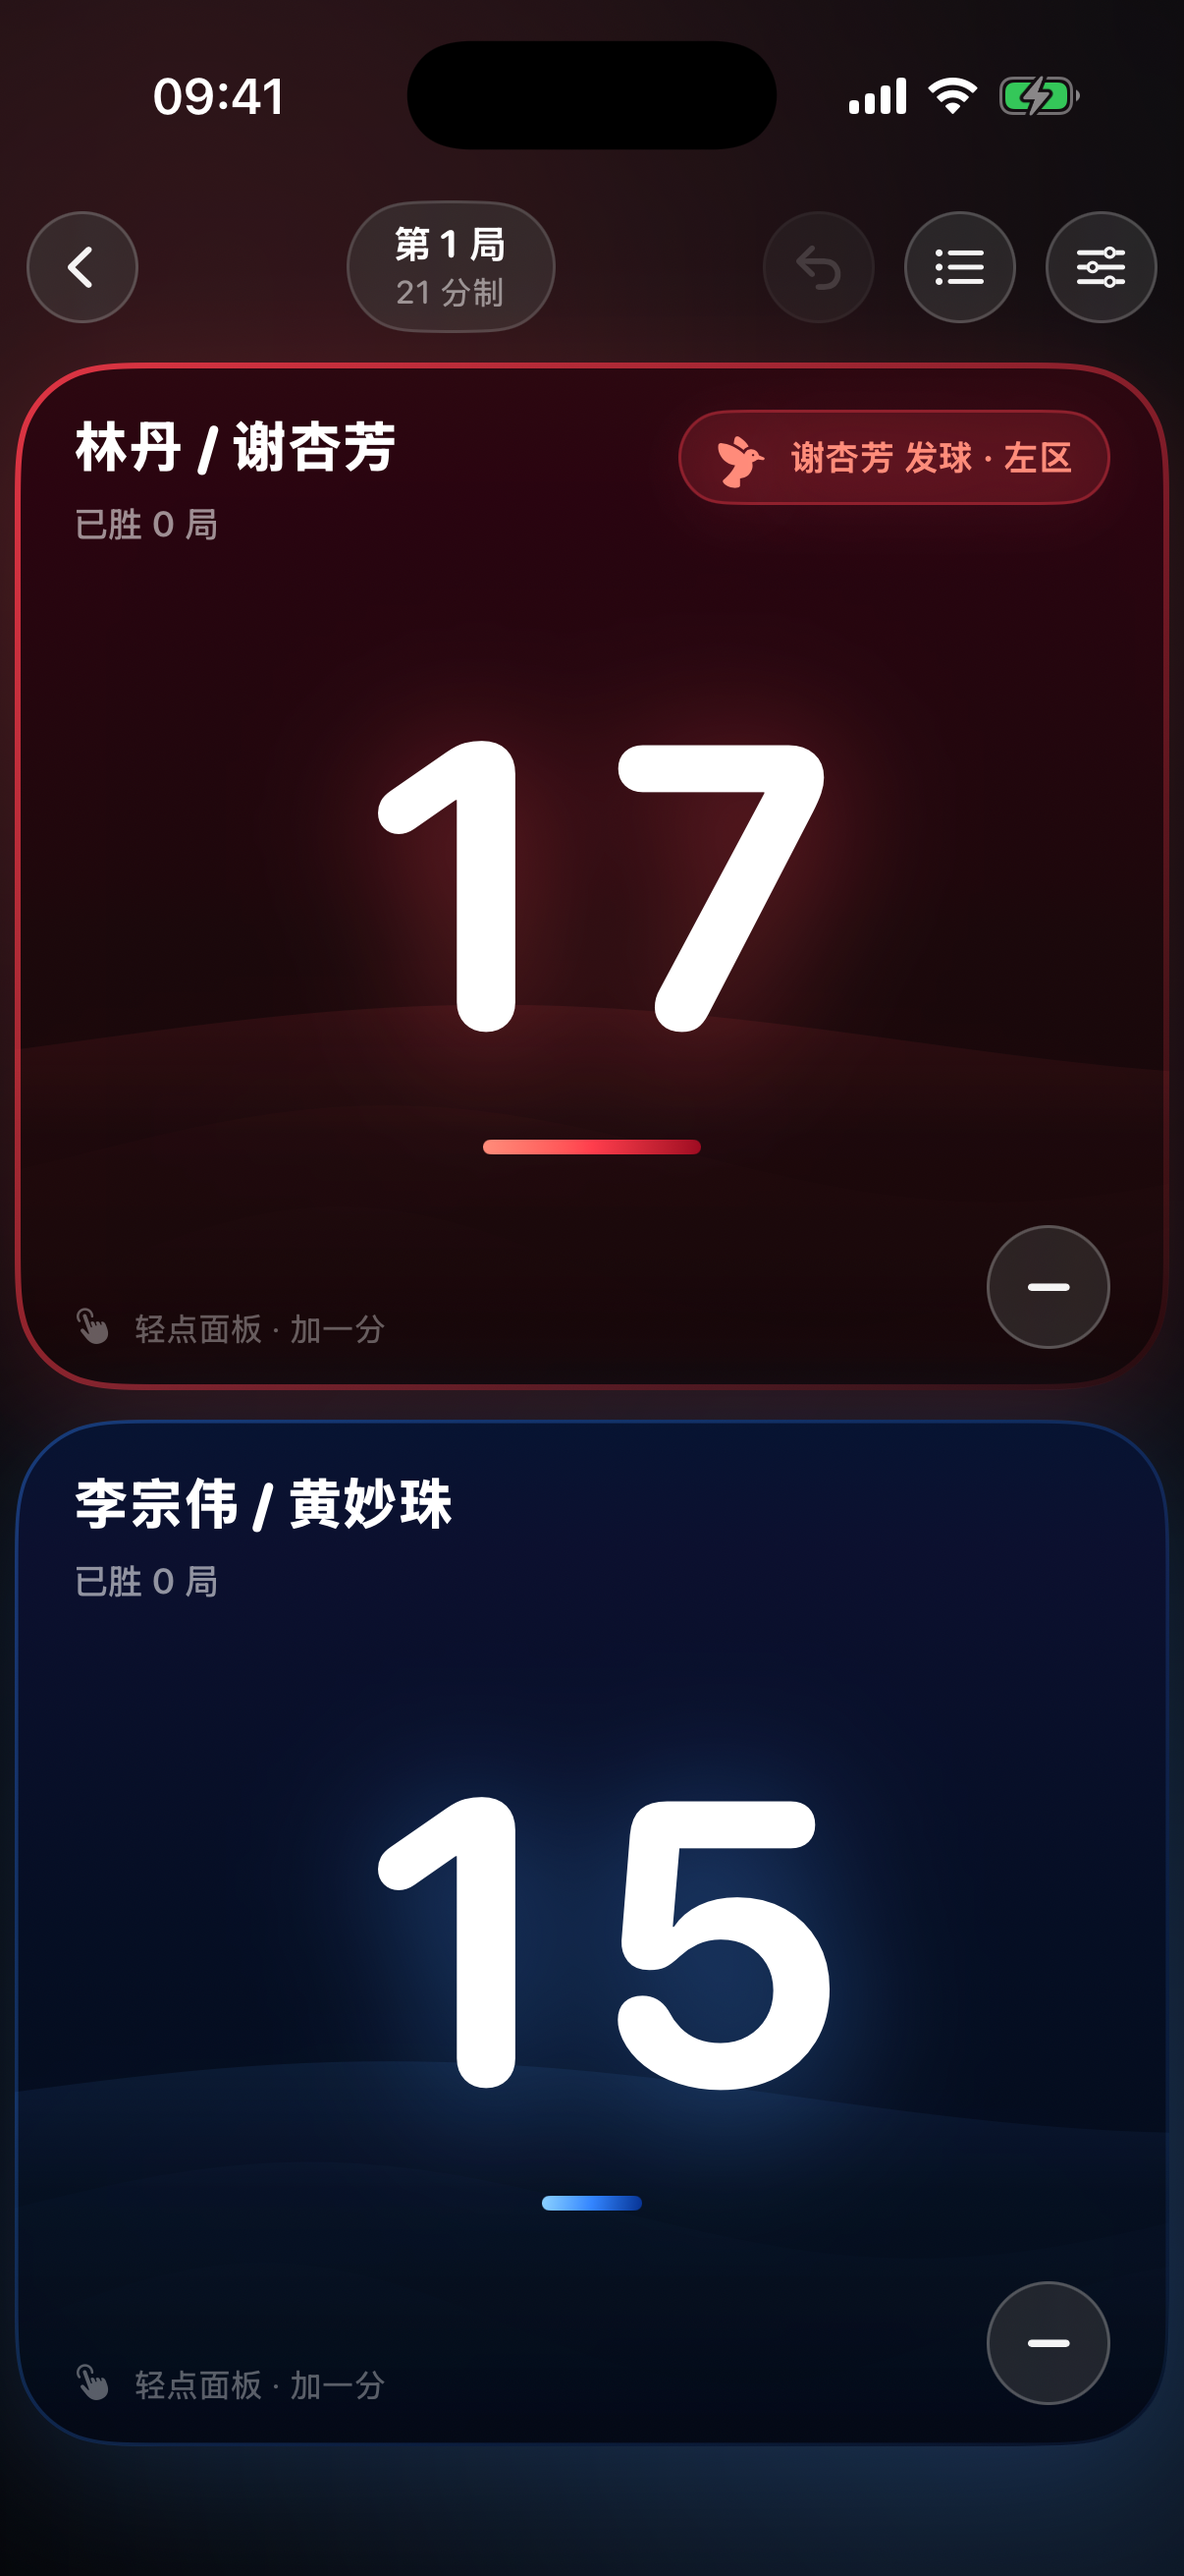
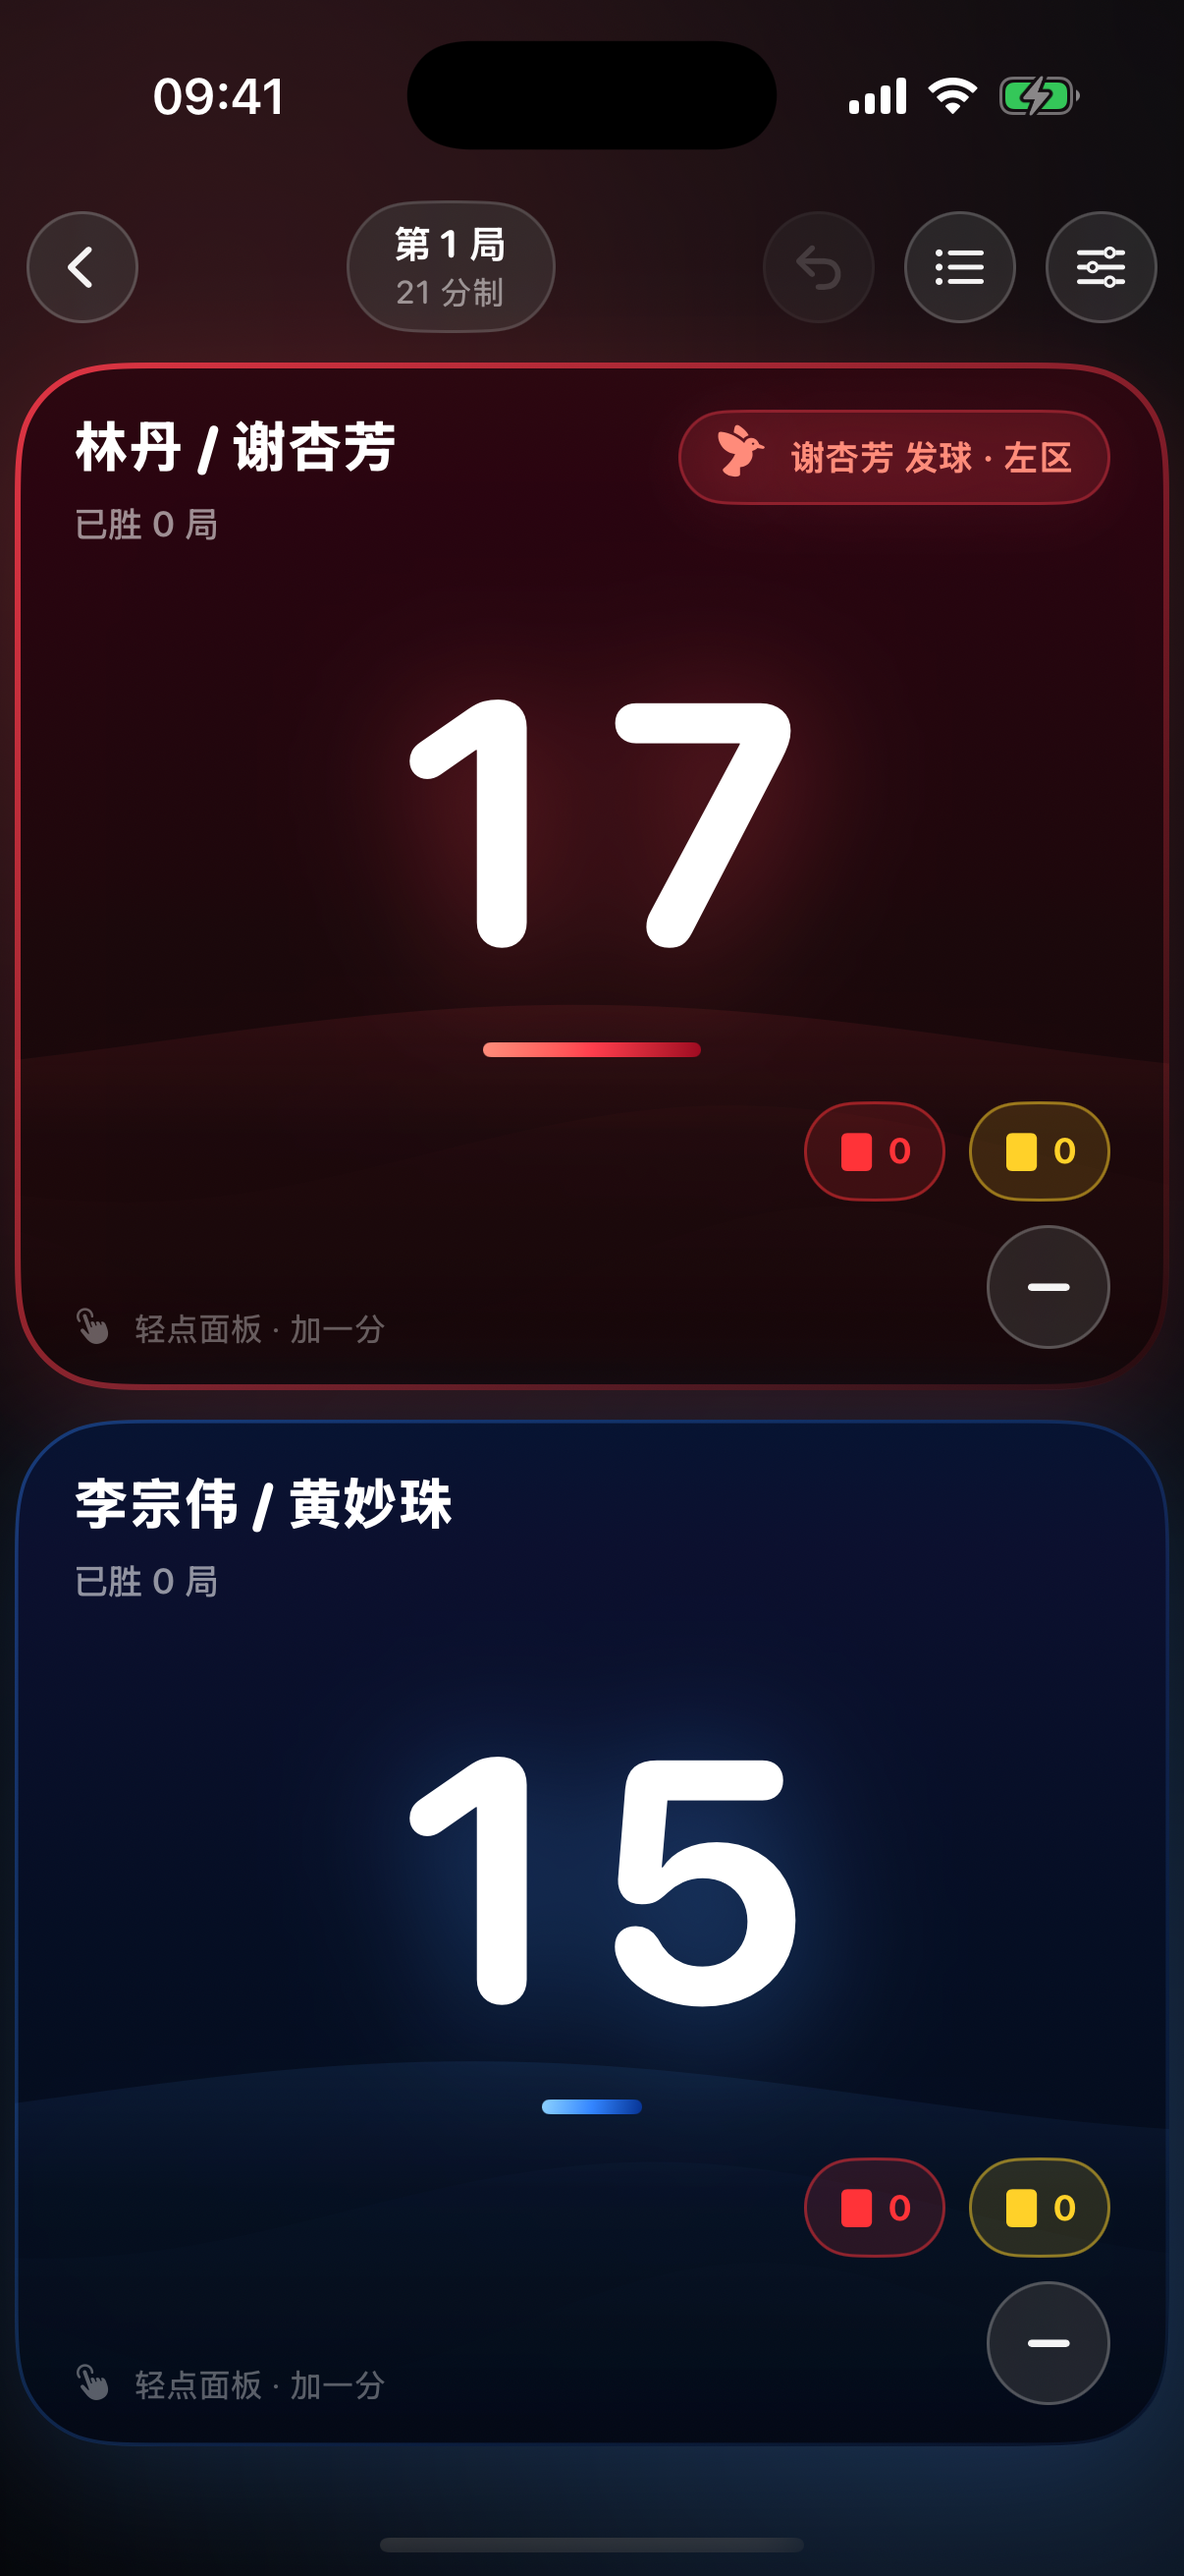
赛点 2.3：红黄牌视频与发布图

diff --git a/src/BadmintonVideo.tsx b/src/BadmintonVideo.tsx
@@ -80,7 +80,7 @@ const SceneOpen: React.FC<{ dur: number }> = ({ dur }) => (
       <div style={{ height: 22 }} />
       <FadeUp delay={26} distance={22}>
         <div style={{ fontSize: 30, color: COLORS.textDim, letterSpacing: 6, fontFamily: FONT }}>
-          红蓝对抗 · 规则内置 · 一指计分
+          红蓝对抗 · 红黄牌 · 一指计分
         </div>
       </FadeUp>
       <div style={{ height: 34 }} />
@@ -88,7 +88,7 @@ const SceneOpen: React.FC<{ dur: number }> = ({ dur }) => (
         <div style={{
           fontSize: 24, fontWeight: 700, color: "#07080C", background: COLORS.blue,
           padding: "9px 26px", borderRadius: 14, fontFamily: FONT,
-        }}>2.2</div>
+        }}>2.3</div>
       </FadeUp>
     </AbsoluteFill>
   </SceneShell>
@@ -133,6 +133,28 @@ const SceneMinus: React.FC<{ dur: number }> = ({ dur }) => (
       <FadeUp delay={48} distance={20}>
         <div style={{ fontSize: 26, color: COLORS.textDim, fontFamily: FONT }}>
           分不是「减」掉的，是<b style={{ color: COLORS.text }}>撤回上一次加分</b> —— 撤销重做随便退
+        </div>
+      </FadeUp>
+    </AbsoluteFill>
+  </SceneShell>
+);
+
+const SceneCards: React.FC<{ dur: number }> = ({ dur }) => (
+  <SceneShell duration={dur} glow={1.0} glowY={42}>
+    <AbsoluteFill style={{ justifyContent: "center", alignItems: "center", flexDirection: "column" }}>
+      <Kicker delay={4}>红黄牌</Kicker>
+      <div style={{ height: 24 }} />
+      <Headline delay={12} size={58}>犯规也记在比分旁</Headline>
+      <div style={{ height: 34 }} />
+      <div style={{ display: "flex", gap: 34, alignItems: "center" }}>
+        <Shot src="s-cards.png" height={440} delay={20} />
+        <Shot src="s-card-red.png" height={380} delay={34} />
+        <Shot src="s-card-yellow.png" height={380} delay={48} />
+      </div>
+      <div style={{ height: 34 }} />
+      <FadeUp delay={68} distance={20}>
+        <div style={{ fontSize: 26, color: COLORS.textDim, fontFamily: FONT }}>
+          红黄牌分别计数 · 全屏提示 · 撤销菜单可分别撤回分数、红牌或黄牌
         </div>
       </FadeUp>
     </AbsoluteFill>
@@ -321,9 +343,9 @@ const SceneOutro: React.FC<{ dur: number }> = ({ dur }) => {
 };
 
 const MAP: [keyof typeof SCENES, React.FC<{ dur: number }>][] = [
-  ["open", SceneOpen], ["tap", SceneTap], ["minus", SceneMinus], ["modes", SceneModes],
-  ["custom", SceneCustom], ["doubles", SceneDoubles], ["records", SceneRecords],
-  ["platforms", ScenePlatforms], ["outro", SceneOutro],
+  ["open", SceneOpen], ["tap", SceneTap], ["minus", SceneMinus], ["cards", SceneCards],
+  ["modes", SceneModes], ["custom", SceneCustom], ["doubles", SceneDoubles],
+  ["records", SceneRecords], ["platforms", ScenePlatforms], ["outro", SceneOutro],
 ];
 
 /** 场景交界处交叠的帧数。两边一起淡，就成了交叉溶解，不会中间黑一下。 */
@@ -340,7 +362,7 @@ export const BadmintonVideo: React.FC = () => (
     }} />
 
     <Audio
-      src={staticFile("slowmotion.mp3")}
+      src={staticFile("episode33.mp3")}
       volume={(f) =>
         interpolate(f, [0, 30, TOTAL_FRAMES - 90, TOTAL_FRAMES], [0, 1, 1, 0], {
           extrapolateLeft: "clamp", extrapolateRight: "clamp",

diff --git a/src/Cover.tsx b/src/Cover.tsx
@@ -15,7 +15,7 @@ export const Cover: React.FC = () => (
         <div style={{ display: "flex", alignItems: "center", gap: 14 }}>
           <span style={{ fontSize: 52 }}>🏸</span>
           <span style={{ fontSize: 38, fontWeight: 700, color: COLORS.text }}>赛点</span>
-          <span style={{ fontSize: 25, fontWeight: 800, color: "#07080C", background: COLORS.blue, padding: "4px 15px", borderRadius: 10 }}>2.2</span>
+          <span style={{ fontSize: 25, fontWeight: 800, color: "#07080C", background: COLORS.blue, padding: "4px 15px", borderRadius: 10 }}>2.3</span>
         </div>
 
         <div style={{ marginTop: 26, fontSize: 60, fontWeight: 800, color: COLORS.text, lineHeight: 1.16 }}>
@@ -25,11 +25,11 @@ export const Cover: React.FC = () => (
         </div>
 
         <div style={{ marginTop: 20, fontSize: 22, color: COLORS.textDim }}>
-          六种规则 · 自定义分数 · 双打发球轮转
+          六种规则 · 红黄牌 · 双打发球轮转
         </div>
 
         <div style={{ marginTop: 20, display: "flex", gap: 11 }}>
-          {["一指计分", "减分即撤回", "对战记录"].map((t) => (
+          {["一指计分", "红黄牌", "对战记录"].map((t) => (
             <span key={t} style={{
               fontSize: 18, color: COLORS.blueBright, padding: "7px 16px", borderRadius: 10,
               background: "rgba(51,133,255,0.14)", border: `1px solid ${COLORS.line}`,
@@ -44,8 +44,8 @@ export const Cover: React.FC = () => (
 
       <div style={{ display: "flex", gap: 16, alignItems: "center" }}>
         {[
-          { src: "s-match.png", h: 320, off: 0 },
-          { src: "s-doubles.png", h: 360, off: -12 },
+          { src: "s-cards.png", h: 320, off: 0 },
+          { src: "s-card-red.png", h: 360, off: -12 },
         ].map((t) => (
           <div key={t.src} style={{
             height: t.h, aspectRatio: "1206 / 2622", overflow: "hidden", borderRadius: 22,

diff --git a/src/SocialPreview.tsx b/src/SocialPreview.tsx
@@ -18,7 +18,7 @@ export const SocialPreview: React.FC = () => (
                         boxShadow: "0 12px 30px rgba(0,0,0,0.5)" }} />
           <span style={{ fontSize: 40, fontWeight: 700, color: COLORS.text }}>赛点</span>
           <span style={{ fontSize: 24, fontWeight: 800, color: "#07080C", background: COLORS.blue,
-                         padding: "4px 14px", borderRadius: 9 }}>2.2</span>
+                         padding: "4px 14px", borderRadius: 9 }}>2.3</span>
         </div>
 
         <div style={{ marginTop: 28, fontSize: 56, fontWeight: 800, color: COLORS.text, lineHeight: 1.16 }}>
@@ -28,11 +28,11 @@ export const SocialPreview: React.FC = () => (
         </div>
 
         <div style={{ marginTop: 22, fontSize: 23, color: COLORS.textDim }}>
-          六种计分规则 · 自定义分数 · 单打双打 · 对战记录
+          六种计分规则 · 红黄牌 · 单打双打 · 对战记录
         </div>
 
         <div style={{ marginTop: 22, display: "flex", gap: 12 }}>
-          {["一指计分", "减分即撤回", "纯 SwiftUI"].map((t) => (
+          {["一指计分", "红黄牌", "纯 SwiftUI"].map((t) => (
             <span key={t} style={{
               fontSize: 18, color: COLORS.blueBright, padding: "7px 16px", borderRadius: 10,
               background: "rgba(51,133,255,0.14)", border: `1px solid ${COLORS.line}`,
@@ -43,8 +43,8 @@ export const SocialPreview: React.FC = () => (
 
       <div style={{ display: "flex", gap: 18, alignItems: "center" }}>
         {[
-          { src: "s-match.png", h: 300, off: 8 },
-          { src: "s-doubles.png", h: 340, off: -10 },
+          { src: "s-cards.png", h: 300, off: 8 },
+          { src: "s-card-yellow.png", h: 340, off: -10 },
         ].map((t) => (
           <div key={t.src} style={{
             height: t.h, aspectRatio: "1206 / 2622", overflow: "hidden", borderRadius: 20,

diff --git a/src/theme.ts b/src/theme.ts
@@ -7,6 +7,7 @@ export const COLORS = {
   text: "#FFFFFF",
   textDim: "#9AA1B4",
   textFaint: "#5F6678",
+  orange: "#FFB84D",
 
   /** 红方 */
   red: "#FF3D4D",
@@ -37,12 +38,13 @@ export const SCENES = {
   open:    { from: 0,    dur: 300 },   // 0:00 开场
   tap:     { from: 300,  dur: 390 },   // 0:10 一指计分
   minus:   { from: 690,  dur: 330 },   // 0:23 减分即撤回
-  modes:   { from: 1020, dur: 420 },   // 0:34 六种计分模式
-  custom:  { from: 1440, dur: 420 },   // 0:48 自定义规则
-  doubles: { from: 1860, dur: 420 },   // 1:02 双打
-  records: { from: 2280, dur: 390 },   // 1:16 对战记录
-  platforms: { from: 2670, dur: 300 },  // 1:29 iPhone & Android
-  outro:   { from: 2970, dur: 300 },   // 1:39 结尾
+  cards:   { from: 1020, dur: 420 },   // 0:34 红黄牌
+  modes:   { from: 1440, dur: 420 },   // 0:48 六种计分模式
+  custom:  { from: 1860, dur: 420 },   // 1:02 自定义规则
+  doubles: { from: 2280, dur: 420 },   // 1:16 双打
+  records: { from: 2700, dur: 390 },   // 1:30 对战记录
+  platforms: { from: 3090, dur: 300 },  // 1:43 iPhone & Android
+  outro:   { from: 3390, dur: 300 },   // 1:53 结尾
 } as const;
 
-export const TOTAL_FRAMES = SCENES.outro.from + SCENES.outro.dur;   // 2910 帧 = 97 秒
+export const TOTAL_FRAMES = SCENES.outro.from + SCENES.outro.dur;   // 3690 帧 = 123 秒

diff --git a/src/LaunchCard.tsx b/src/LaunchCard.tsx
@@ -7,6 +7,7 @@ const FEATURES: [string, string][] = [
   ["🎛", "自定义分数与局数"],
   ["👥", "单打 / 双打 · 发球轮转"],
   ["👆", "一指计分 · 减分即撤回"],
+  ["🟥", "红黄牌计数 · 全屏提示 · 分别撤销"],
   ["📋", "对战记录 · 批量删除"],
   ["📱", "iPhone 和 Android 都有"],
 ];
@@ -25,8 +26,8 @@ export const LaunchCard: React.FC = () => (
         <div>
           <div style={{ fontSize: 48, fontWeight: 800, color: COLORS.text, letterSpacing: 2 }}>赛点</div>
           <div style={{ marginTop: 10, display: "flex", alignItems: "center", gap: 12 }}>
-            <span style={{ fontSize: 24, fontWeight: 700, color: "#07080C", padding: "5px 18px", borderRadius: 10, background: COLORS.blue }}>2.2</span>
-            <span style={{ fontSize: 21, color: COLORS.textDim }}>自定义规则 · 双打 · 对战记录</span>
+            <span style={{ fontSize: 24, fontWeight: 700, color: "#07080C", padding: "5px 18px", borderRadius: 10, background: COLORS.blue }}>2.3</span>
+            <span style={{ fontSize: 21, color: COLORS.textDim }}>红黄牌 · 自定义规则 · 对战记录</span>
           </div>
         </div>
       </div>

diff --git a/README.md b/README.md
@@ -6,7 +6,7 @@
 
 | Composition | 内容 |
 | --- | --- |
-| `BadmintonVideo` | 宣传视频，1920×1080，97 秒 |
+| `BadmintonVideo` | 宣传视频，1920×1080，123 秒 |
 | `Cover` | B 站封面，1146×717 |
 | `LaunchCard` | 竖版公告图，1080×1500 |
 
@@ -18,7 +18,7 @@ npm install
 npx remotion compositions
 npx remotion still Cover out/cover.png
 npx remotion still LaunchCard out/launch.png
-npx remotion render BadmintonVideo out/badminton-2.0.mp4 --codec=h264 --crf=18
+npx remotion render BadmintonVideo out/saidian-2.3.mp4 --codec=h264 --crf=18
 npx remotion studio          # 可视化编辑器
 ```
 
@@ -32,8 +32,9 @@ npx remotion studio          # 可视化编辑器
 
 ## 关于背景音乐
 
-**仓库里没有音乐**（版权原因）。渲染带声音的视频时，自己准备一个 mp3 放到项目根目录，
-文件名要和 `src/BadmintonVideo.tsx` 里 `staticFile()` 引用的对上。
+2.3 视频使用 Episode 33。仓库按原有约定忽略 `*.mp3`，本地渲染前把
+`Episode 33.mp3` 放到 `public/episode33.mp3`；替换音乐时同步修改
+`src/BadmintonVideo.tsx` 里 `staticFile()` 的文件名。
 
 渲染出来的 MP4 已经带了音轨，可以直接发。
 
@@ -43,7 +44,7 @@ npx remotion studio          # 可视化编辑器
 
 之前每个场景自带一层不透明背景，跟着 `opacity` 一起淡出，
 淡到 0 时露出空白底色 —— 于是每个场景交界处都黑闪一下
-（97 秒里 8 个场景 = 8 次黑闪）。
+（123 秒里 10 个场景 = 10 次黑闪）。
 
 现在背景是 `BadmintonVideo` 里一层常驻的 `AbsoluteFill`，
 场景只淡自己的内容；再加上前后两个场景的 `Sequence` 交叠 22 帧，
@@ -63,12 +64,12 @@ Remotion 的静态图（`remotion still`）**只渲染第 0 帧**，
 src/
   theme.ts             配色（和 App 的 Theme.swift 一致）与时间轴
   anim.tsx             动效工具
-  BadmintonVideo.tsx   宣传视频（8 个场景）
+  BadmintonVideo.tsx   宣传视频（10 个场景）
   Cover.tsx            B 站封面
   LaunchCard.tsx       竖版公告图
   Root.tsx             注册 composition
   index.ts             入口
-public/                应用截图 + 音乐（音乐不在仓库里）
+public/                应用截图（背景音乐按需本地放入，不提交）
 ```
 
 ## 许可证
